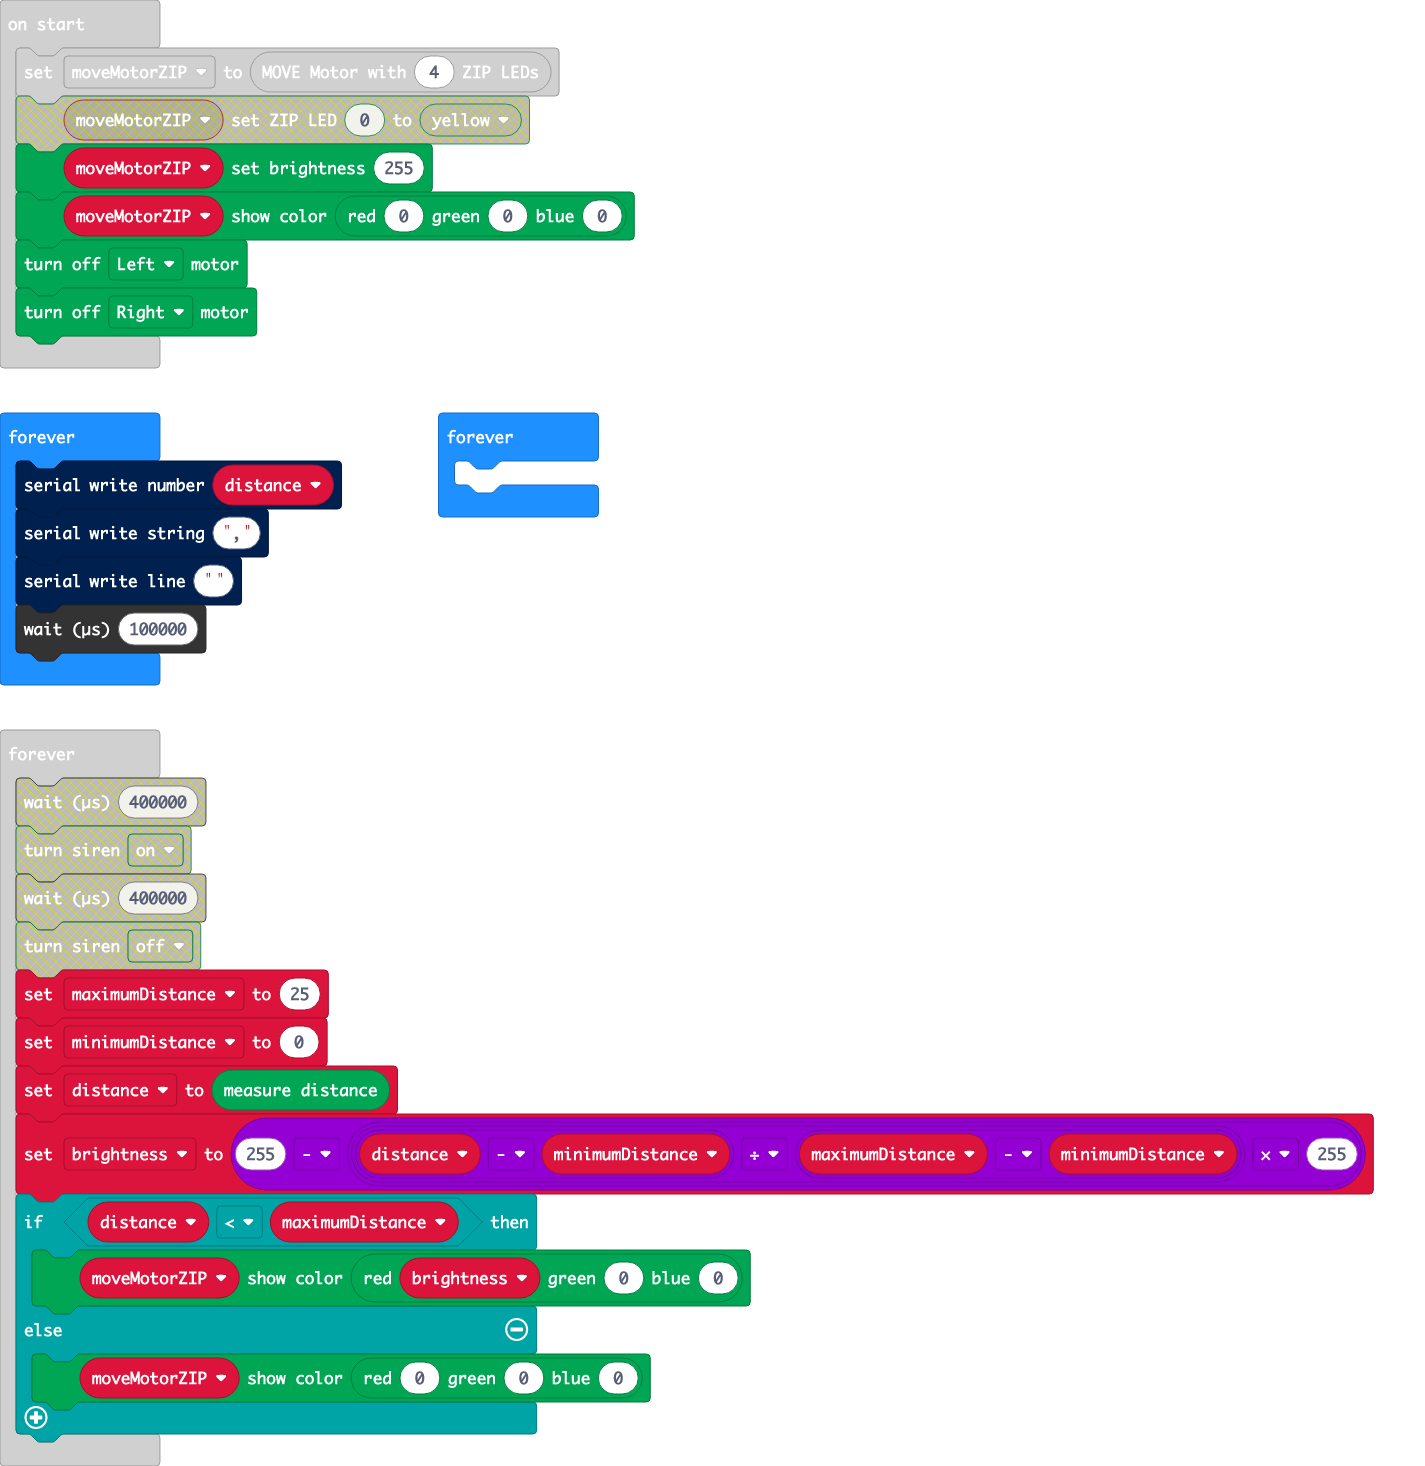
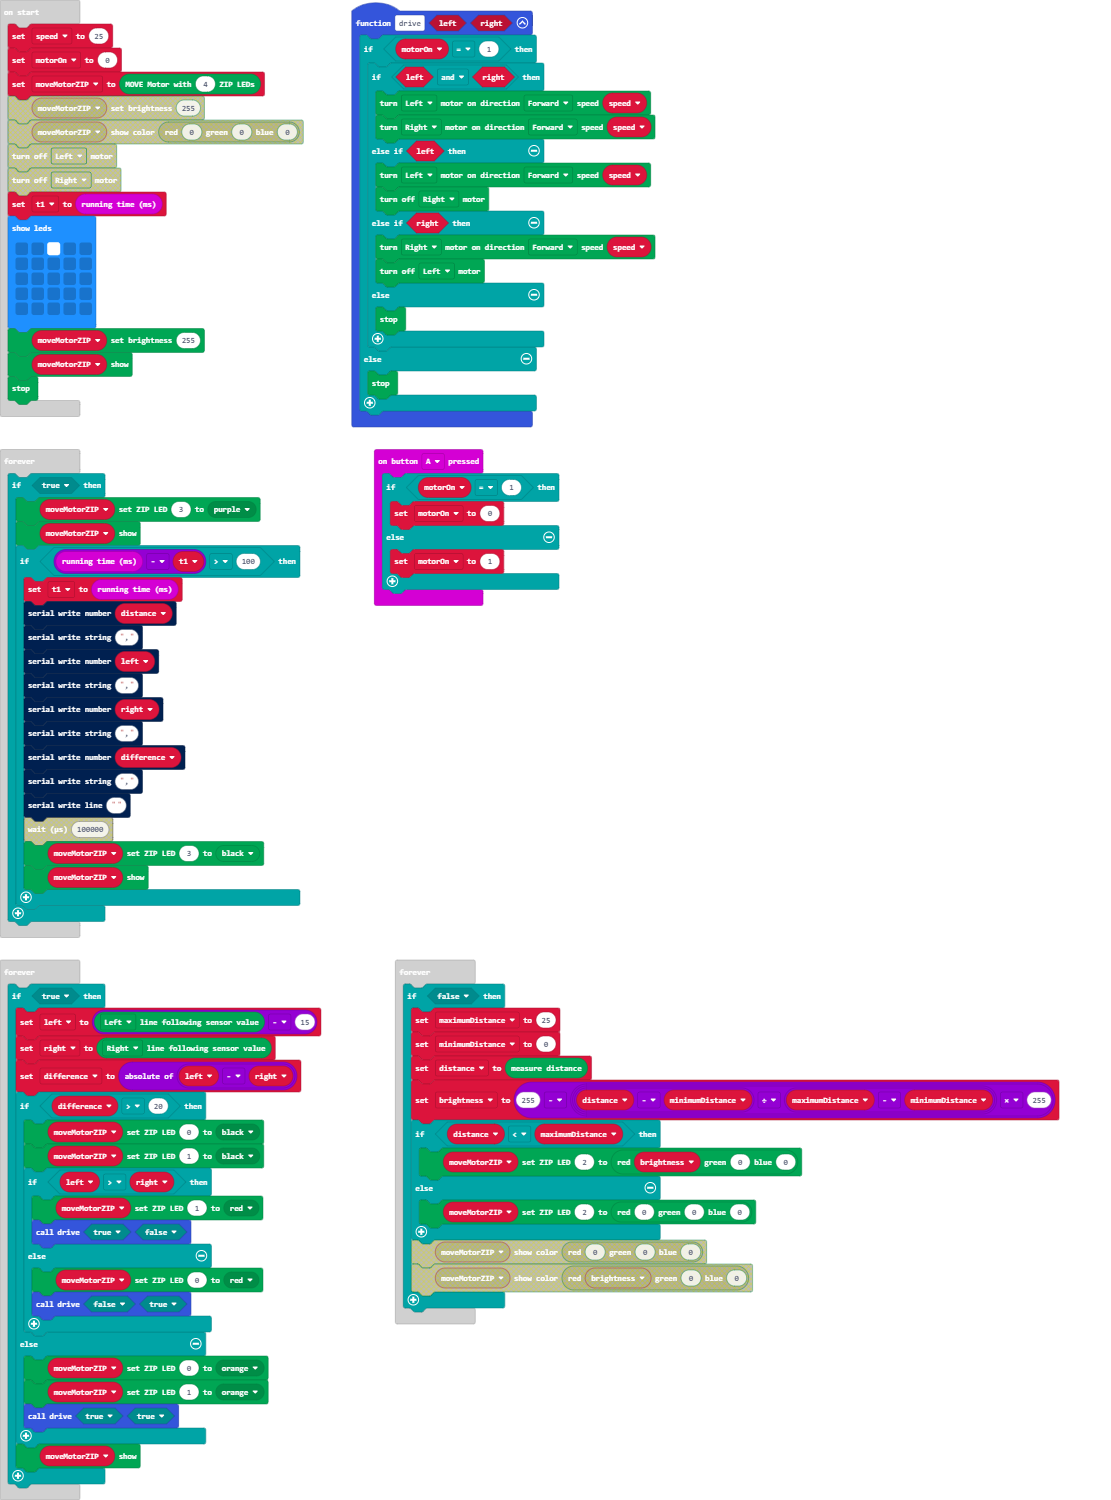
Added on off for motors. LEDs to show control.

diff --git a/main.ts b/main.ts
@@ -1,29 +1,104 @@
+input.onButtonPressed(Button.A, function () {
+    if (motorOn == 1) {
+        motorOn = 0
+    } else {
+        motorOn = 1
+    }
+})
+function drive (left: boolean, right: boolean) {
+    if (motorOn == 1) {
+        if (left && right) {
+            Kitronik_Move_Motor.motorOn(Kitronik_Move_Motor.Motors.MotorLeft, Kitronik_Move_Motor.MotorDirection.Forward, speed)
+            Kitronik_Move_Motor.motorOn(Kitronik_Move_Motor.Motors.MotorRight, Kitronik_Move_Motor.MotorDirection.Forward, speed)
+        } else if (left) {
+            Kitronik_Move_Motor.motorOn(Kitronik_Move_Motor.Motors.MotorLeft, Kitronik_Move_Motor.MotorDirection.Forward, speed)
+            Kitronik_Move_Motor.motorOff(Kitronik_Move_Motor.Motors.MotorRight)
+        } else if (right) {
+            Kitronik_Move_Motor.motorOn(Kitronik_Move_Motor.Motors.MotorRight, Kitronik_Move_Motor.MotorDirection.Forward, speed)
+            Kitronik_Move_Motor.motorOff(Kitronik_Move_Motor.Motors.MotorLeft)
+        } else {
+            Kitronik_Move_Motor.stop()
+        }
+    } else {
+        Kitronik_Move_Motor.stop()
+    }
+}
 let brightness = 0
 let minimumDistance = 0
 let maximumDistance = 0
+let difference = 0
+let right = 0
+let left = 0
 let distance = 0
+let motorOn = 0
+let speed = 0
+speed = 25
+motorOn = 0
 let moveMotorZIP = Kitronik_Move_Motor.createMoveMotorZIPLED(4)
+let t1 = input.runningTime()
+basic.showLeds(`
+    . . # . .
+    . . . . .
+    . . . . .
+    . . . . .
+    . . . . .
+    `)
 moveMotorZIP.setBrightness(255)
-moveMotorZIP.showColor(Kitronik_Move_Motor.rgb(0, 0, 0))
-Kitronik_Move_Motor.motorOff(Kitronik_Move_Motor.Motors.MotorLeft)
-Kitronik_Move_Motor.motorOff(Kitronik_Move_Motor.Motors.MotorRight)
+moveMotorZIP.show()
+Kitronik_Move_Motor.stop()
 basic.forever(function () {
-    serial.writeNumber(distance)
-    serial.writeString(",")
-    serial.writeLine("")
-    control.waitMicros(100000)
+    if (true) {
+        moveMotorZIP.setZipLedColor(3, Kitronik_Move_Motor.colors(Kitronik_Move_Motor.ZipLedColors.Purple))
+        moveMotorZIP.show()
+        if (input.runningTime() - t1 > 100) {
+            t1 = input.runningTime()
+            serial.writeNumber(distance)
+            serial.writeString(",")
+            serial.writeNumber(left)
+            serial.writeString(",")
+            serial.writeNumber(right)
+            serial.writeString(",")
+            serial.writeNumber(difference)
+            serial.writeString(",")
+            serial.writeLine("")
+            moveMotorZIP.setZipLedColor(3, Kitronik_Move_Motor.colors(Kitronik_Move_Motor.ZipLedColors.Black))
+            moveMotorZIP.show()
+        }
+    }
 })
 basic.forever(function () {
-	
+    if (true) {
+        left = Kitronik_Move_Motor.readSensor(Kitronik_Move_Motor.LfSensor.Left) - 15
+        right = Kitronik_Move_Motor.readSensor(Kitronik_Move_Motor.LfSensor.Right)
+        difference = Math.abs(left - right)
+        if (difference > 20) {
+            moveMotorZIP.setZipLedColor(0, Kitronik_Move_Motor.colors(Kitronik_Move_Motor.ZipLedColors.Black))
+            moveMotorZIP.setZipLedColor(1, Kitronik_Move_Motor.colors(Kitronik_Move_Motor.ZipLedColors.Black))
+            if (left > right) {
+                moveMotorZIP.setZipLedColor(1, Kitronik_Move_Motor.colors(Kitronik_Move_Motor.ZipLedColors.Red))
+                drive(true, false)
+            } else {
+                moveMotorZIP.setZipLedColor(0, Kitronik_Move_Motor.colors(Kitronik_Move_Motor.ZipLedColors.Red))
+                drive(false, true)
+            }
+        } else {
+            moveMotorZIP.setZipLedColor(0, Kitronik_Move_Motor.colors(Kitronik_Move_Motor.ZipLedColors.Orange))
+            moveMotorZIP.setZipLedColor(1, Kitronik_Move_Motor.colors(Kitronik_Move_Motor.ZipLedColors.Orange))
+            drive(true, true)
+        }
+        moveMotorZIP.show()
+    }
 })
 basic.forever(function () {
-    maximumDistance = 25
-    minimumDistance = 0
-    distance = Kitronik_Move_Motor.measure()
-    brightness = 255 - (distance - minimumDistance) / (maximumDistance - minimumDistance) * 255
-    if (distance < maximumDistance) {
-        moveMotorZIP.showColor(Kitronik_Move_Motor.rgb(brightness, 0, 0))
-    } else {
-        moveMotorZIP.showColor(Kitronik_Move_Motor.rgb(0, 0, 0))
+    if (false) {
+        maximumDistance = 25
+        minimumDistance = 0
+        distance = Kitronik_Move_Motor.measure()
+        brightness = 255 - (distance - minimumDistance) / (maximumDistance - minimumDistance) * 255
+        if (distance < maximumDistance) {
+            moveMotorZIP.setZipLedColor(2, Kitronik_Move_Motor.rgb(brightness, 0, 0))
+        } else {
+            moveMotorZIP.setZipLedColor(2, Kitronik_Move_Motor.rgb(0, 0, 0))
+        }
     }
 })
